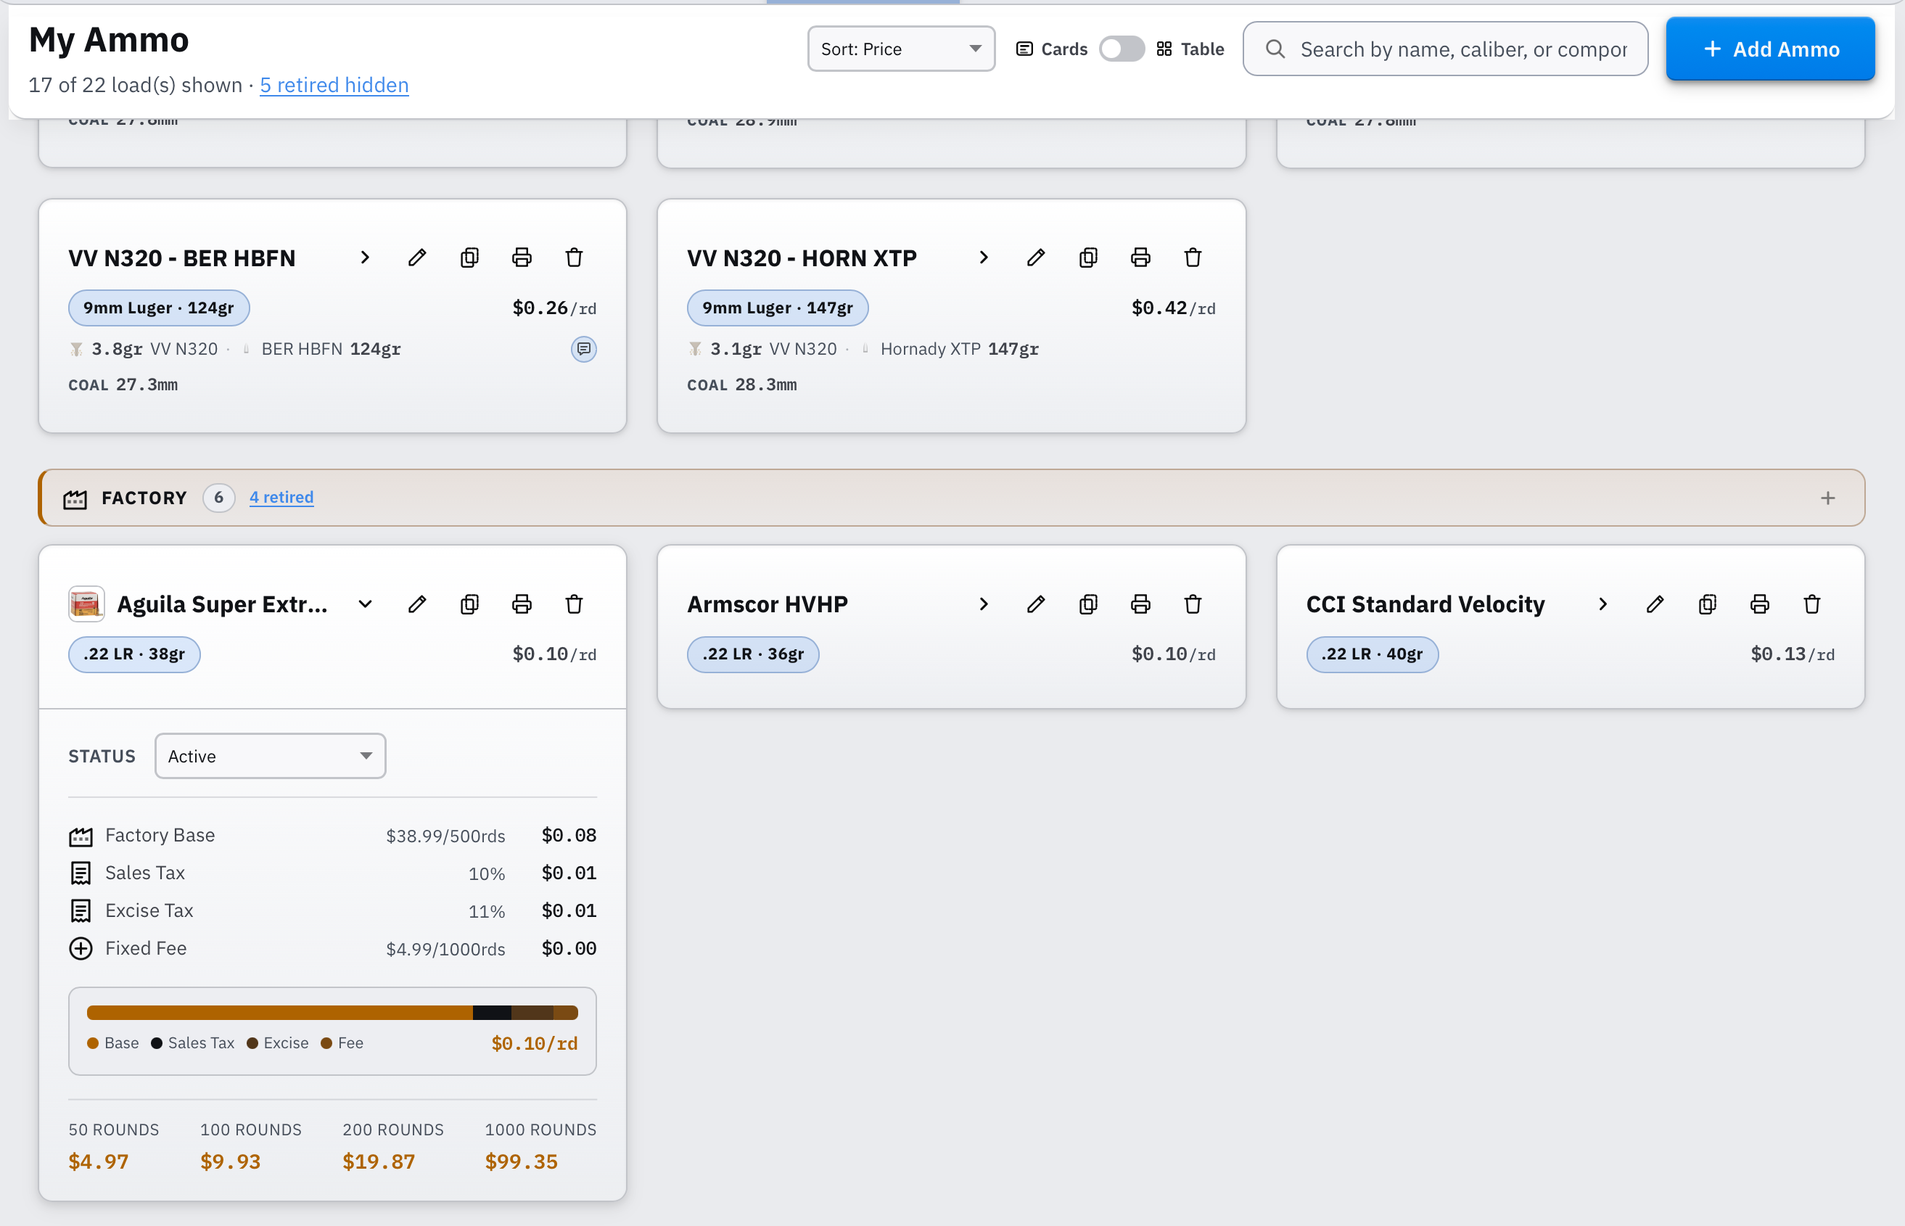
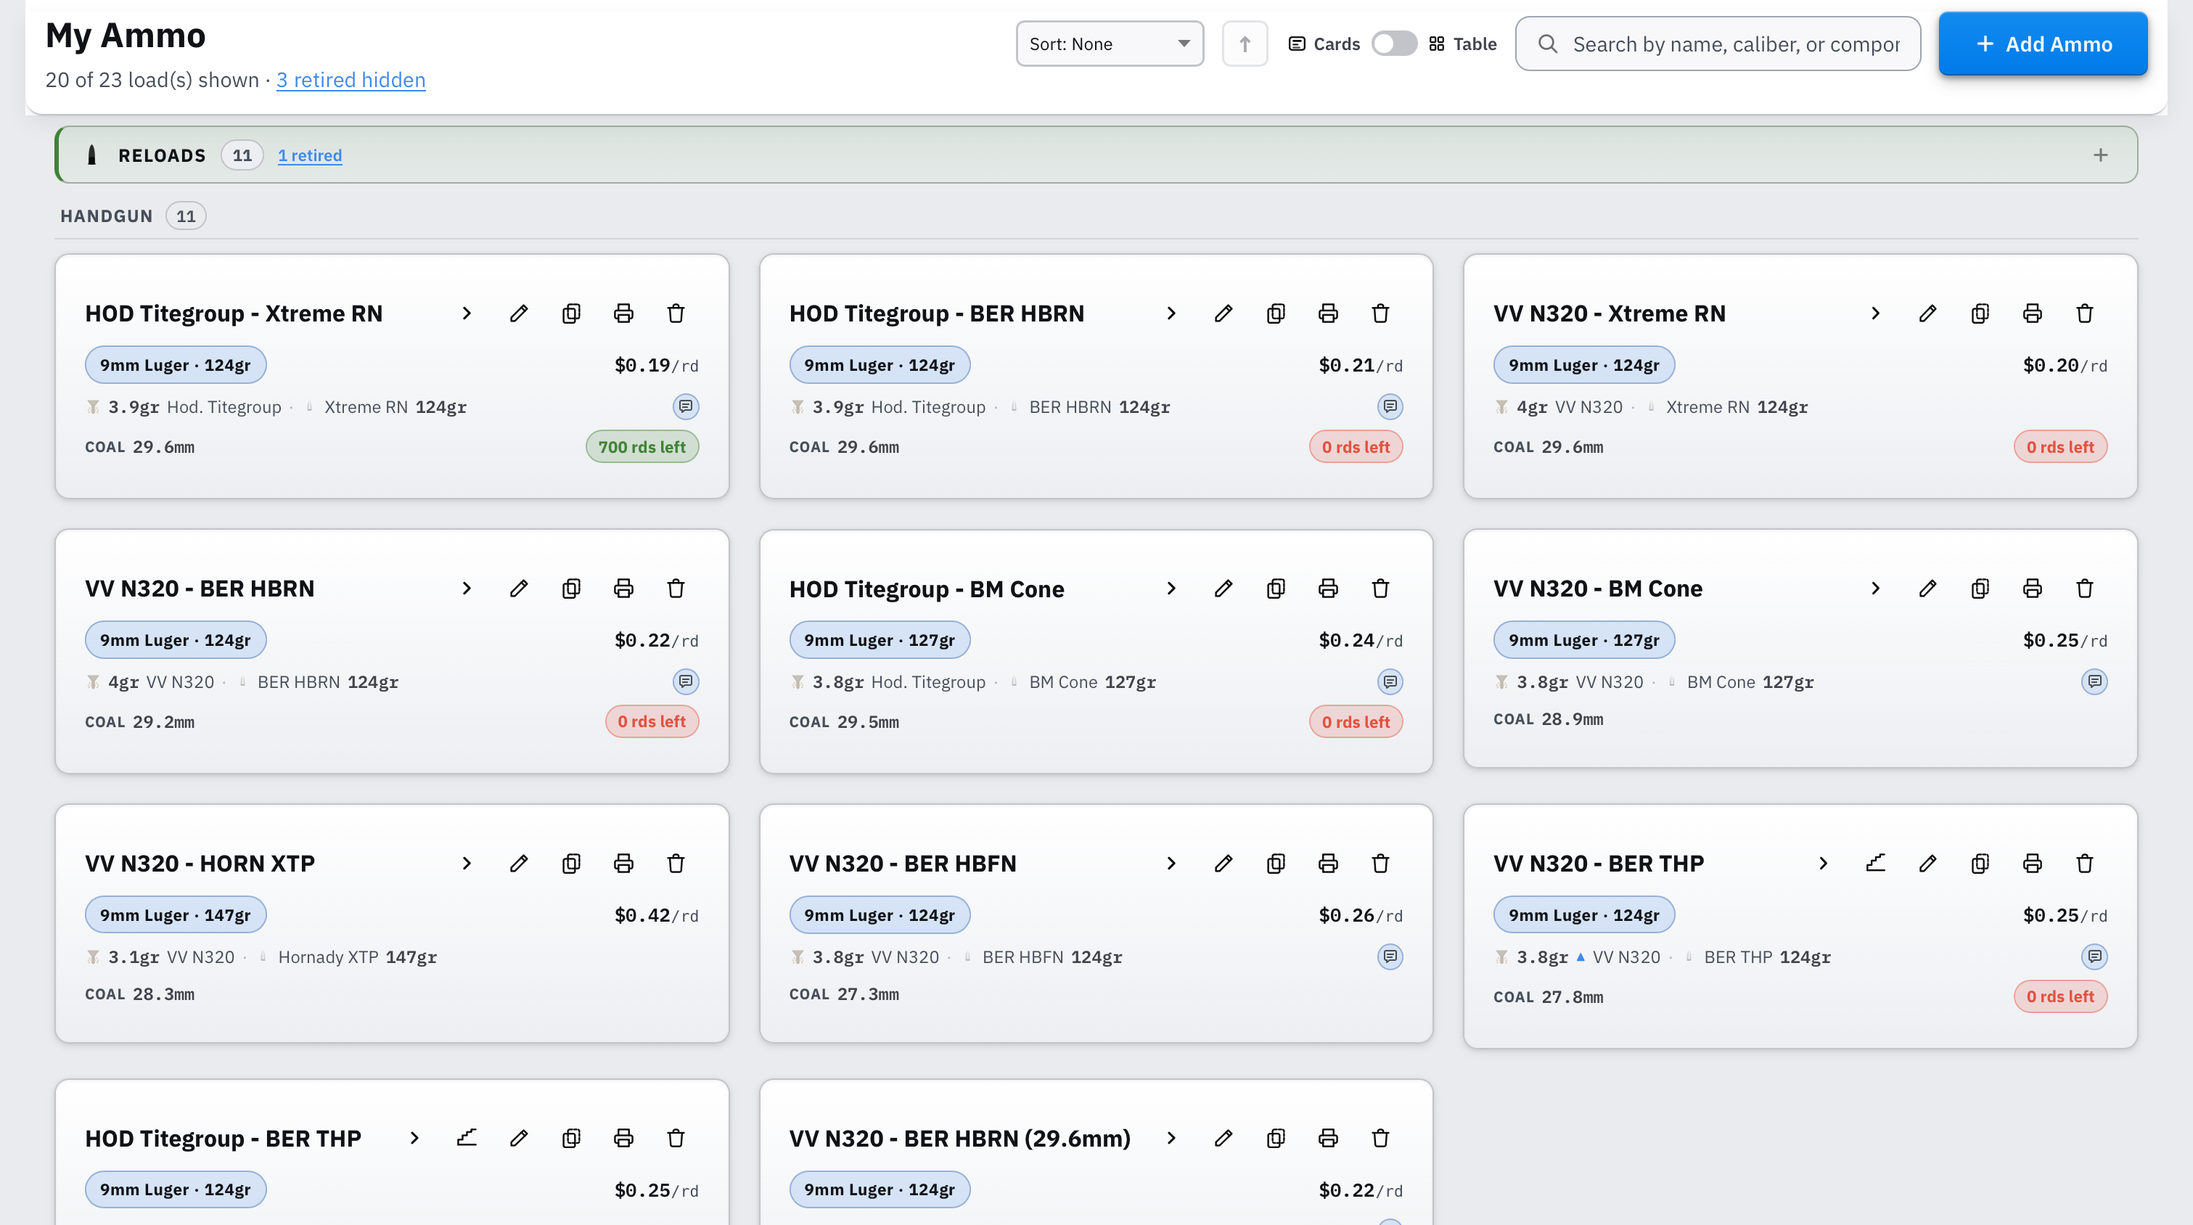
Updates for version 2.16.0

diff --git a/README.md b/README.md
@@ -1,4 +1,4 @@
-# Reloading Tracker 2.15.0: User Guide
+# Reloading Tracker 2.16.0: User Guide
 
 Reloading Tracker is your complete bench-to-range companion. It starts as a production log: define your loads, record every pressing session with a unique lot number, and print a label for every box on your shelf. And it grows with you from there.
 
@@ -7,7 +7,7 @@ Manage a shared component inventory, work up new loads with a structured charge 
 If you also care about the economics, the app can do that too. Compare the cost of your reloads against factory ammunition, track your progress toward break-even after equipment investment, and get a side-by-side cost breakdown across any combination of loads. Totally optional though -- plenty of reloaders just want the log and the data.
 
 
-> **DOWNLOAD:** A desktop version is available from the releases page: [**latest version**](https://github.com/fmalpartida/reloading-cost-calculator/releases/tag/v2.14.3). All previous version are available [here](https://github.com/fmalpartida/reloading-cost-calculator/releases).
+> **DOWNLOAD:** A desktop version is available from the releases page: [**latest version**](https://github.com/fmalpartida/reloading-cost-calculator/releases/tag/v2.16.0). All previous version are available [here](https://github.com/fmalpartida/reloading-cost-calculator/releases).
 
 
 Want to try it out first?
@@ -199,7 +199,6 @@ Move the tabs in the application to customize your workflow. Hide those parts of
 
 The **My Ammo** tab is where you build and maintain your ammunition library. Entries are grouped by type: reloads first, then factory ammo (sorted cheapest to most expensive within each group). Each group has a colored section header with a **+** button to add a new entry of that type directly. Within each group, entries are split into **Handgun**, **Rifle**, and **Shotgun** categories, with anything that can't be placed under **Uncategorized**.
 
-<!-- IMAGE MAY NEED UPDATING: Reloads and Factory headers now have a caliber filter (2.15.0) -->
 ![Screenshot: My Ammo tab showing reload and factory cards](./images/my-ammo.png)
 
 ### 2.1 Adding a Reload Entry
@@ -229,7 +228,7 @@ Click **Add Ammo** in the top-right corner of the My Ammo tab, or click the **+*
 - Brass description, price, quantity, and how many times each case will be reloaded before replacement. The cost per round is divided by this reuse count.
 
 **Stock**
-- Rounds in hand for a reload come from the Journal: every lot you press for this load adds its rounds, and rounds logged against those lots in the Range Log come off. Archived lots no longer count. There is no count to type in; the only field is **Alert Below (rounds)**, an optional threshold that shows a **Low** badge on the card and in the table once rounds in hand fall to or below it.
+- Rounds in hand for a reload come from the Journal: every lot you press for this load adds its rounds, and rounds logged against those lots in the Range Log come off. Archived lots no longer count. There is no count to type in; the only field is **Alert Below (rounds)**, an optional threshold that turns the card's stock pill orange, and shows a **Low** badge in the table, once rounds in hand fall to or below it.
 
 **Sales Tax**
 - The sales tax percentage applied to your total component cost.
@@ -246,7 +245,7 @@ Click **Add Ammo** or the **+** button in the **Factory** section header. The Ed
 
 **Stock** *(optional)*
 - Tracks how many rounds of this factory ammo you have left. Rather than typing a total directly, enter the number of boxes in **Add Boxes** and click **Add** (or just save the entry) - it accumulates into a running **Lifetime total** shown just below the field. To correct a mistake (e.g. you added a box twice), enter a negative number and click **Add** again; the lifetime total never drops below zero.
-- **Alert Below (boxes)**: optional threshold. When the rounds remaining fall to or below this many boxes, a **Low** badge appears on the card and in the table.
+- **Alert Below (boxes)**: optional threshold. When the rounds remaining fall to or below this many boxes, the card's stock pill turns orange and a **Low** badge appears in the table.
 - Remaining rounds are calculated automatically as *Lifetime total × Rounds per Box*, minus every round logged against this ammo in the Range Log - including sessions logged before you started tracking stock for it, so the count factors in your full shooting history, not just usage from today forward.
 - While stock is tracked, the **Live Preview** shows the boxes and rounds you have in hand, with a **Low** badge when below your alert. It updates as you type in **Add Boxes**, before you save.
 - Leave **Add Boxes** untouched (lifetime total stays at 0) if you don't want to track stock for this ammo; the Stock display is hidden everywhere until you add at least one box.
@@ -286,7 +285,9 @@ You can also switch between **Card** and **Table** views using the view toggle n
 
 **Stock display**
 
-Ammo with stock to show gets a **Stock** line on the card, or a **Stock** column in table view. Factory ammo with stock tracking enabled (see [2.2](#22-adding-a-factory-ammo-entry)) shows rounds and boxes remaining together, e.g. *250 rds (5 boxes) left*. Reloads show the rounds left in their active Journal lots (see [2.1](#21-adding-a-reload-entry)), e.g. *240 rds left*, so the number always matches the Journal's **Remaining** column. A **Low** badge appears once remaining stock falls to or below your configured **Alert Below** threshold. Hover (or focus) the Stock label to see how the number is worked out. Factory ammo with no boxes added and reloads with no Journal lots show no Stock line at all.
+Ammo with stock to show gets a **stock pill** on the card, or a **Stock** column in table view. Factory ammo with stock tracking enabled (see [2.2](#22-adding-a-factory-ammo-entry)) shows rounds and boxes remaining together, e.g. *250 rds (5 boxes) left*. Reloads show the rounds left in their active Journal lots (see [2.1](#21-adding-a-reload-entry)), e.g. *240 rds left*, so the number always matches the Journal's **Remaining** column. Factory ammo with no boxes added and reloads with no Journal lots show no stock at all.
+
+On the card, the pill sits at the right end of the card. Its color tells you where you stand at a glance: **green** while you have stock, **orange** once it falls to or below your **Alert Below** threshold, and **red** when it reaches zero. In table view, a **Low** badge marks the same threshold. Hover (or focus) the pill to see how the number is worked out.
 
 ![Screenshot: Expanded ammo card showing component breakdown](images/ammo-viewer.png)
 
@@ -452,13 +453,11 @@ The reload form swaps the cartridge sections for shotshell ones:
 
 Hull, wad, shot, and slug can all be picked from My Components like any other component (see [3.3](#33-linking-inventory-to-loads)). Hulls, wads, and slugs saved with a gauge only show up for loads of that gauge. The cost breakdown on the card and in the Live Preview lists the shot, wad, and hull cost per shell.
 
-<!-- IMAGE NEEDED: images/shotshell-editor.png, Editor with Ammo Class set to Shotshell showing the Shot, Wads, and Hulls sections -->
 
 **Factory shotshells**
 
 Factory entries take the same gauge, shell length, and projectile, plus optional payload, shot material and size, pellet count, slug weight, **Dram Equivalent**, and **Velocity**. Pricing, taxes, and stock work as for any factory ammo (see [2.2](#22-adding-a-factory-ammo-entry)).
 
-<!-- IMAGE NEEDED: images/shotshell-card.png, expanded shotshell card in My Ammo showing shot, wad, and hull costs -->
 
 > Shotshell recipes are tested as an exact combination of hull, primer, powder, wad, and payload. Don't swap any one of them without published data for the new combination.
 
@@ -566,15 +565,24 @@ For brass with any **Consistency & Fit** or **Annealing** fields set, a **Detail
 
 ### 3.2 Managing Components
 
-Each component card has three action buttons:
+Each component card has four action buttons:
 
 | Button | Action |
 |--------|--------|
 | ✏ Edit | Opens the component in the form panel for editing. The type selector is disabled; type cannot be changed after creation. |
-| ⧉ Duplicate | Creates a copy with *(copy)* appended to the name, useful when a component comes in multiple package sizes. |
+| ⧉ Duplicate | Creates a copy with *(copy)* appended to the name, useful when a component comes in multiple package sizes. Duplicating an archived component gives an active copy. |
+| 📦 Archive | Retires the component without deleting it. Becomes **Restore** on an archived component. See below. |
 | 🗑 Delete | Permanently removes the component from the catalog. Loads that were linked to it retain their last-known values but lose the live link. |
 
 ![Screenshot: Inventory card action buttons](./images/inventory-card-actions.png)
+
+**Archiving components**
+
+When you stop using a component, say a powder you won't buy again or a brass lot you've retired, archive it rather than delete it. You're asked to confirm first. An archived component is hidden from the list, left out of the cash-in-hand totals, and no longer offered in the Editor's inventory dropdowns or the Journal's brass and hull lists. Loads already linked to it keep the link and keep updating.
+
+When anything is archived, the count under the page title ends with a **"N archived hidden"** link, and each section header shows **"N archived"** for that section. Click either to show archived components; the link changes to **hide archived**. Shown archived components are dimmed, with an **ARCHIVED** tag on the card or a red edge and an **Archived** tag on the table row. Click **Restore** to make one active again.
+
+![Screenshot: Archived components, showing archived component tag and link to hide them at the top.](./images/archived-components.png)
 
 In **Table view**, the **Stock** column shows the current quantity on hand for each component, formatted with a unit suffix (*primers*, *rounds*, *cases*, *hulls*, *wads*, *slugs*, *lb*, or *kg*). Components with no stock quantity set show a dash (-). A **Low** badge appears in the same cell when stock is at or below the threshold. The **Lot #** column next to it shows each component's lot number, or a dash when none is set.
 
@@ -594,7 +602,7 @@ Components with a photo (see [3.1](#31-adding-a-component)) show it as a thumbna
 
 **Cash-in-hand totals**
 
-Each category header (Powders, Primers, Bullets, Brass, and so on) shows that category's total stock value (quantity on hand × price) next to its item count. A grand total across all categories appears at the top of the page next to the filter tags. Search and the filter tags don't affect these totals, but a section's caliber filter does: picking .308 Win in Bullets shows only the value of your .308 Win bullets, and the grand total follows. Both use your configured currency symbol and update automatically as stock levels or prices change.
+Each category header (Powders, Primers, Bullets, Brass, and so on) shows that category's total stock value (quantity on hand × price) next to its item count. A grand total across all categories appears at the top of the page next to the filter tags. Archived components never count. Search and the filter tags don't affect these totals, but a section's caliber filter does: picking .308 Win in Bullets shows only the value of your .308 Win bullets, and the grand total follows. Both use your configured currency symbol and update automatically as stock levels or prices change.
 
 ### 3.3 Linking Inventory to Loads
 
@@ -673,14 +681,21 @@ Click **Save** to add the firearm. The profile appears immediately in the Firear
 
 ### 4.2 Managing Firearm Profiles
 
-Each firearm profile (in both card and table view) has two action buttons:
+Each firearm profile (in both card and table view) has three action buttons:
 
 | Button | Action |
 |--------|--------|
 | ✏ Edit | Opens the profile in the form dialog for editing. All fields can be changed. If you rename the firearm, its past Range Log sessions follow the new name, so its history stays together. |
+| 📦 Archive | Retires the firearm without deleting it. Becomes **Restore** on an archived firearm. See below. |
 | 🗑 Delete | Permanently removes the profile from the registry. Existing Range Log sessions that referenced this firearm are not affected; the recorded firearm name is preserved in those sessions. |
 
 A confirmation dialog appears before deletion to prevent accidental removal.
+
+**Archiving firearms**
+
+Sold a rifle or put one away for good? Archive it to keep it on record without cluttering the list. You're asked to confirm first. An archived firearm is hidden from the list, from the Range Log's firearm picker, and from the **Dedicated Firearm** picker on brass. Existing Range Log sessions keep their firearm, and a brass lot already dedicated to it keeps the link.
+
+When anything is archived, the count under the page title ends with a **"N archived hidden"** link, and each caliber group shows **"N archived"** for that group. Click either to show archived firearms; the link changes to **hide archived**. Shown archived firearms are dimmed, with an **ARCHIVED** tag on the card or a red edge and an **Archived** tag on the table row. Click **Restore** to make one active again.
 
 ### 4.3 Filtering and Searching
 
@@ -745,9 +760,6 @@ Click **Log Entry** at the top right of the entries card to open the session dia
 The next available lot number is shown at the top of the dialog and is assigned automatically when you save. Click **Save Entry** to log the session. The new entry appears at the top of the list and the lot counter advances.
 
 For a shotshell load the dialog adapts: COAL and CBTO overrides are hidden, **Brass override** becomes **Hull override** (picked from your hulls), and the lot fields become powder, primer, shot (or slug), wad, and hull.
-
-<!-- IMAGE NEEDED: images/shotshell-journal.png, Journal entry dialog for a shotshell load showing the Hull override and shotshell lot fields -->
-
 Component lots are only filled in automatically for new entries. Entries logged before this feature existed stay blank, since today's lots may not be the ones you used back then; edit an entry to add them by hand if you know them.
 
 ![Screenshot: journal edit dialog showing the charge, COAL, and brass override fields](./images/journal-editor.png)
@@ -807,7 +819,7 @@ Entries with component lots recorded show a tag icon in the Notes column. Hover 
 The **Remaining** column shows how many rounds from each lot have not yet been fired. It is calculated automatically from your Range Log: every time you log rounds against a lot in a range session, the remaining count decreases. When all rounds in a lot have been accounted for in the Range Log, the lot is marked **Depleted**. This live link between the journal and the range means you always know exactly how much of each lot is left on the shelf without maintaining a separate inventory.
 
 **Archiving and restoring entries**
-Click the **📦 Archive** button to move a lot out of the active list without deleting it. Archived entries remain part of your history and are still counted in the Journal statistics panel, but their unfired rounds no longer count toward the load's stock in My Ammo. To see archived entries, click the **"N archived"** link that appears in the journal header when any entries are archived. To restore an entry to the active list, expand the archived view and click the **Restore** button on the relevant row.
+Click the **📦 Archive** button to move a lot out of the active list without deleting it. Archived entries remain part of your history and are still counted in the Journal statistics panel, but their unfired rounds no longer count toward the load's stock in My Ammo. When any entries are archived, the page description ends with a **"N archived hidden"** link; click it (or the archive filter button in the header) to show them, and click **hide archived** to hide them again. Archived rows are dimmed and tagged **Archived**. To restore an entry to the active list, click the **Restore** button on its row.
 
 Use the **Search** box at the top of the page to filter entries by lot number, date, load name, caliber, brass name, notes, or component lot. Searching a primer lot code, for example, lists every batch pressed with that lot.
 
@@ -1283,7 +1295,6 @@ Click **New Target Sheet** in the page header to open the designer with a blank 
 
 Click **Save Sheet** to save or **Cancel** to discard changes. The **Print** button in the designer header opens the print dialog directly from the editor.
 
-
 ![Screenshot: Target Sheet designer, left configuration panel with sheet settings and ring controls, right panel showing real-time print preview of the target layout](./images/target-generator-designer.png)
 
 #### 7.3.2 Configuring Rings
@@ -1295,6 +1306,7 @@ For each ring, configure:
 | Option | Description |
 |--------|-------------|
 | **Color** | Choose from: black, white, red, orange, yellow, green, blue, grey, or silver. Each ring can be a different colour to create high-contrast scoring zones. |
+| **Ring lines** | Turn on to draw a thin line (0.5 mm) on the edge between rings, in a colour you pick from the same palette. It separates neighbouring rings of the same colour and makes scoring edges easier to read. The outer edge of the target has no line. |
 | **Overall diameter** | The outer diameter of the outermost ring (in inches or mm). |
 | **Ring step** | The spacing between consecutive ring edges; controls how wide each scoring band is. |
 
@@ -1377,7 +1389,11 @@ The **Cost Analysis** tab shows how the cumulative cost of reloading (including 
 
 The left column lists all your reload and factory entries.
 
-By default, both reloads and factory ammo use **checkbox selection**. Check the entries you want to include in the averages. If nothing is checked, **all entries of that type are included automatically**.
+By default, both reloads and factory ammo use **checkbox selection**. Check the entries you want to include in the averages. If nothing is checked, **all entries of that type are included automatically**. Your selection and round counts are saved, so they're still there next time you open the tab.
+
+Each entry fits on one line: checkbox, name, and cost per round. In **Rounds** mode a reload shows its name, round count, and journal rounds on the first line, with the cost per round and total rounds below, aligned right. A small thumbnail appears next to the name: the photo of factory ammo, or the photo of a reload's linked bullet (see [3.3](#33-linking-inventory-to-loads)).
+
+Click a load's name to open its details: caliber, COAL/CBTO, and for reloads the powder, bullet, primer, and brass, each with its photo from My Components when it has one (the type icon otherwise). Factory ammo shows its photo. This is the same dialog you get by clicking a load name in the Journal.
 
 ![Screenshot: Load Selection panel with checkboxes](./images/load-selection.png)
 
